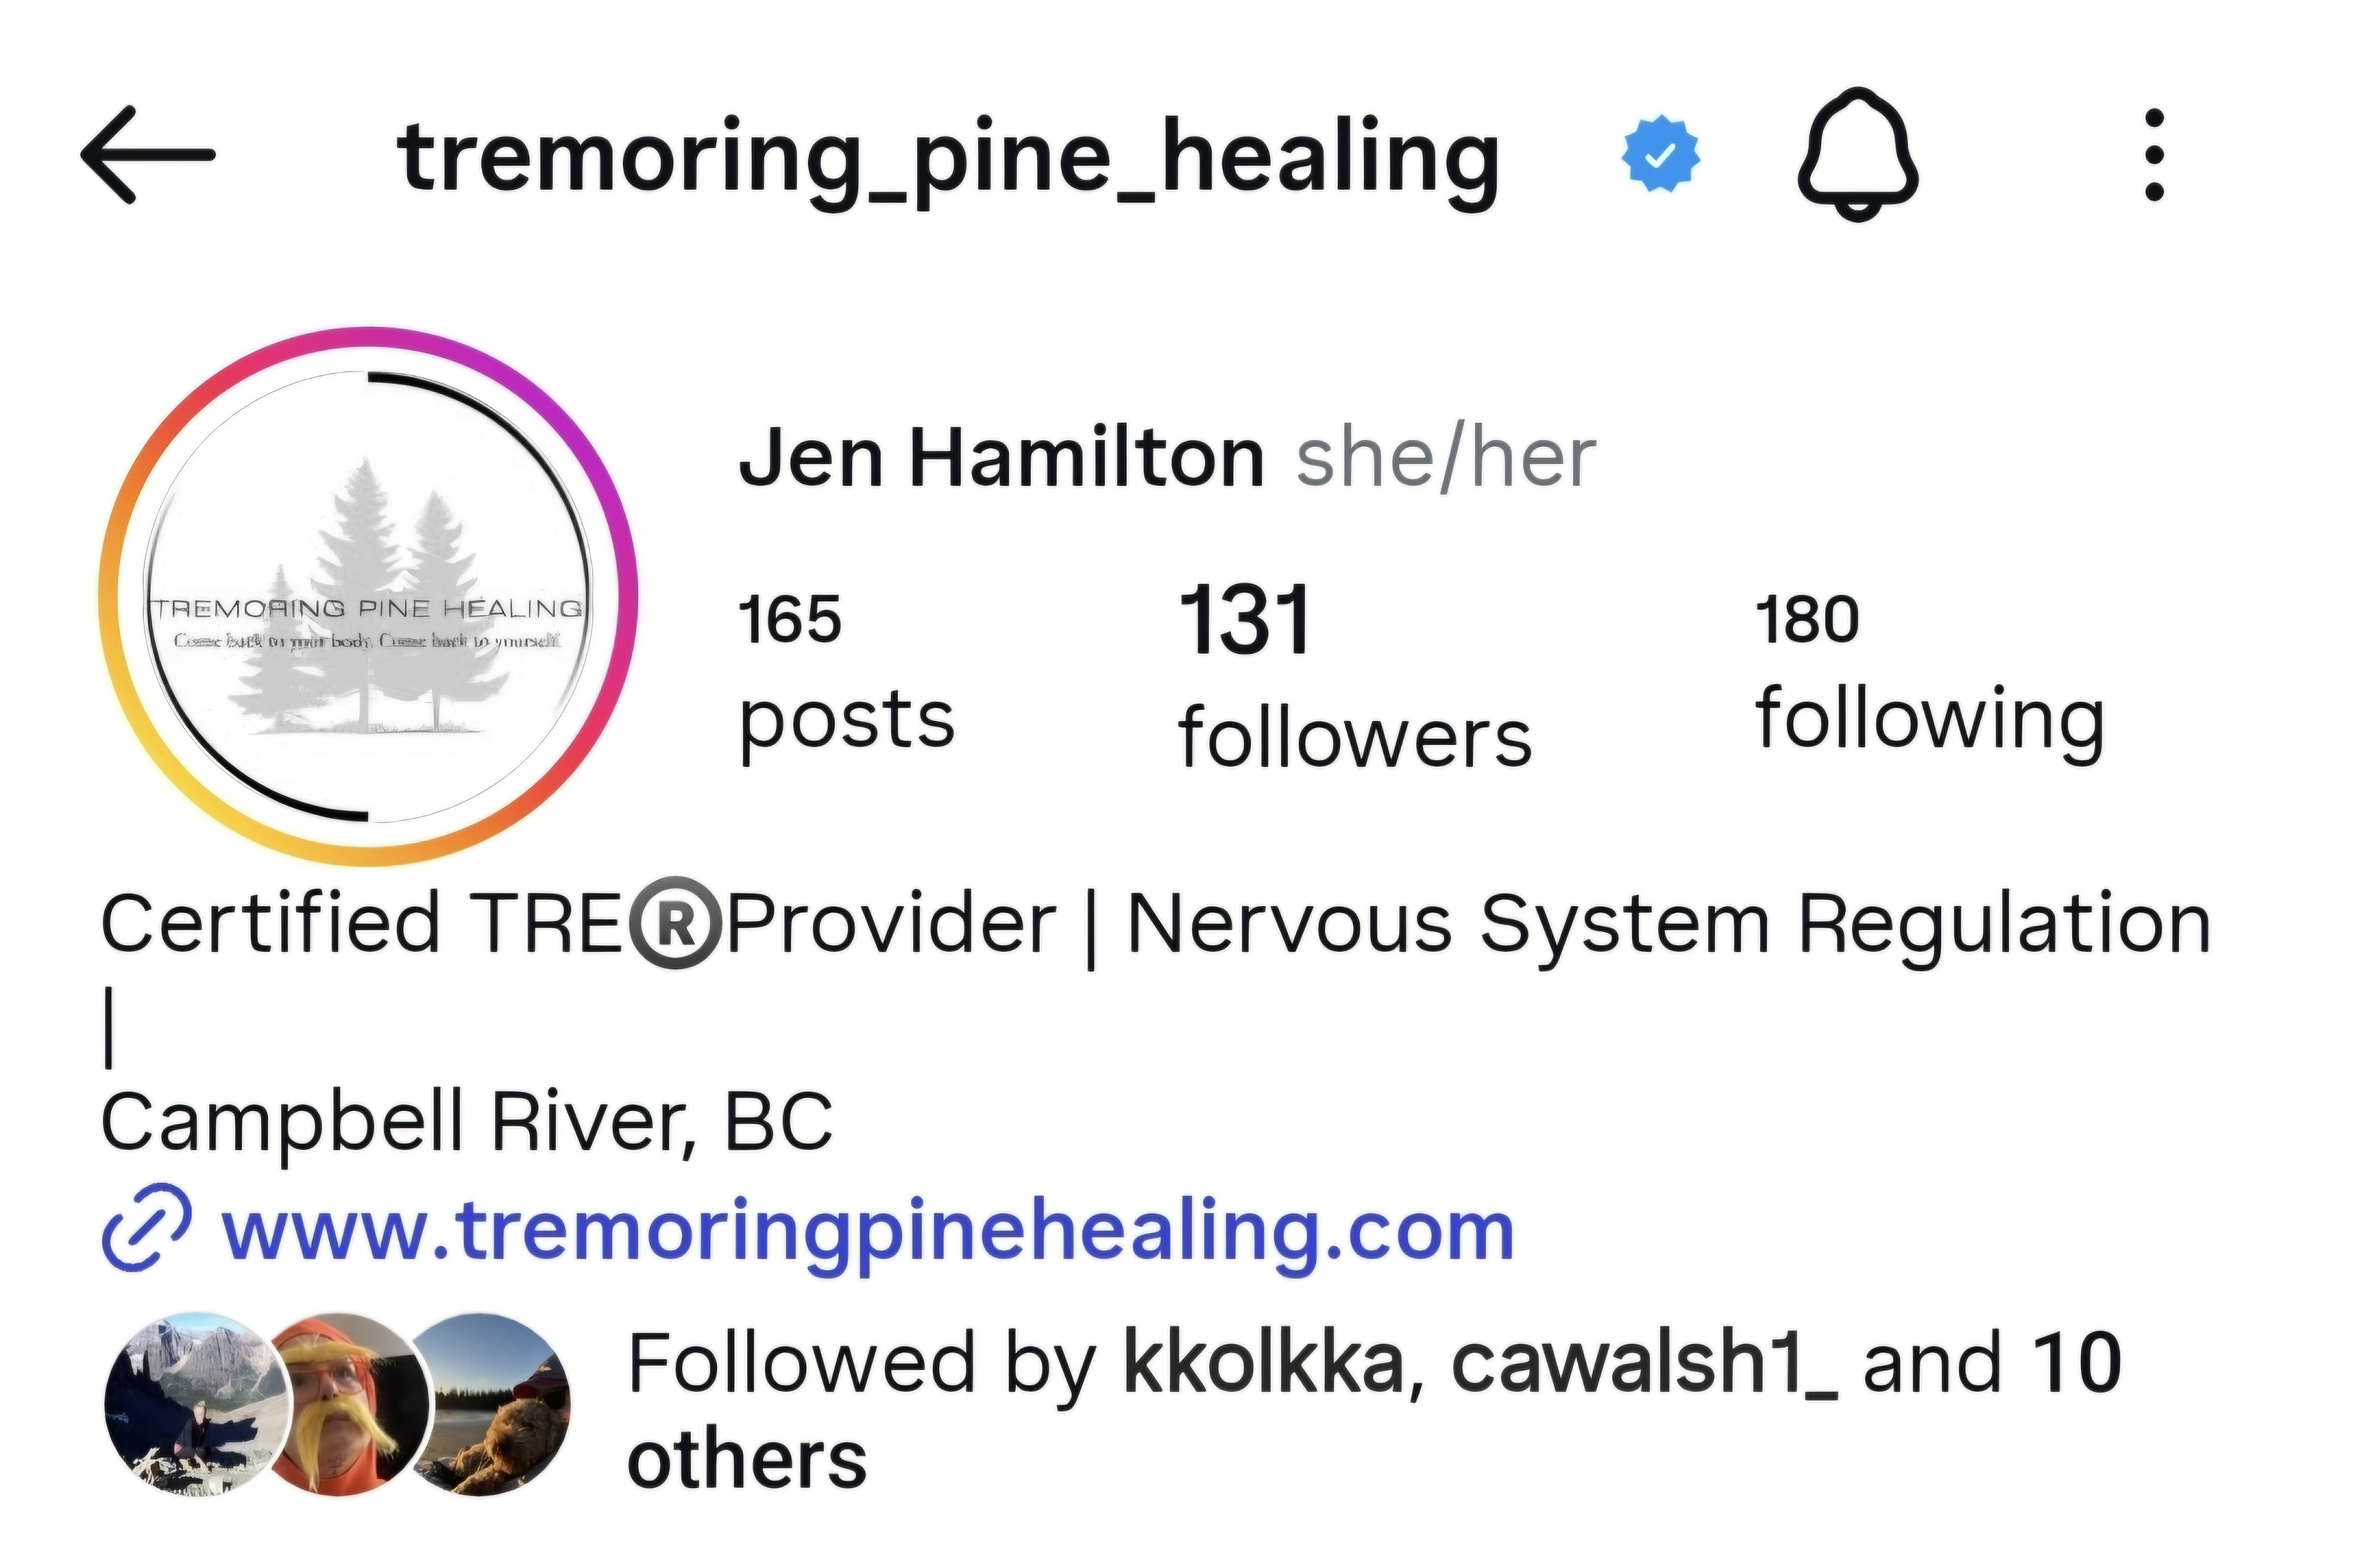
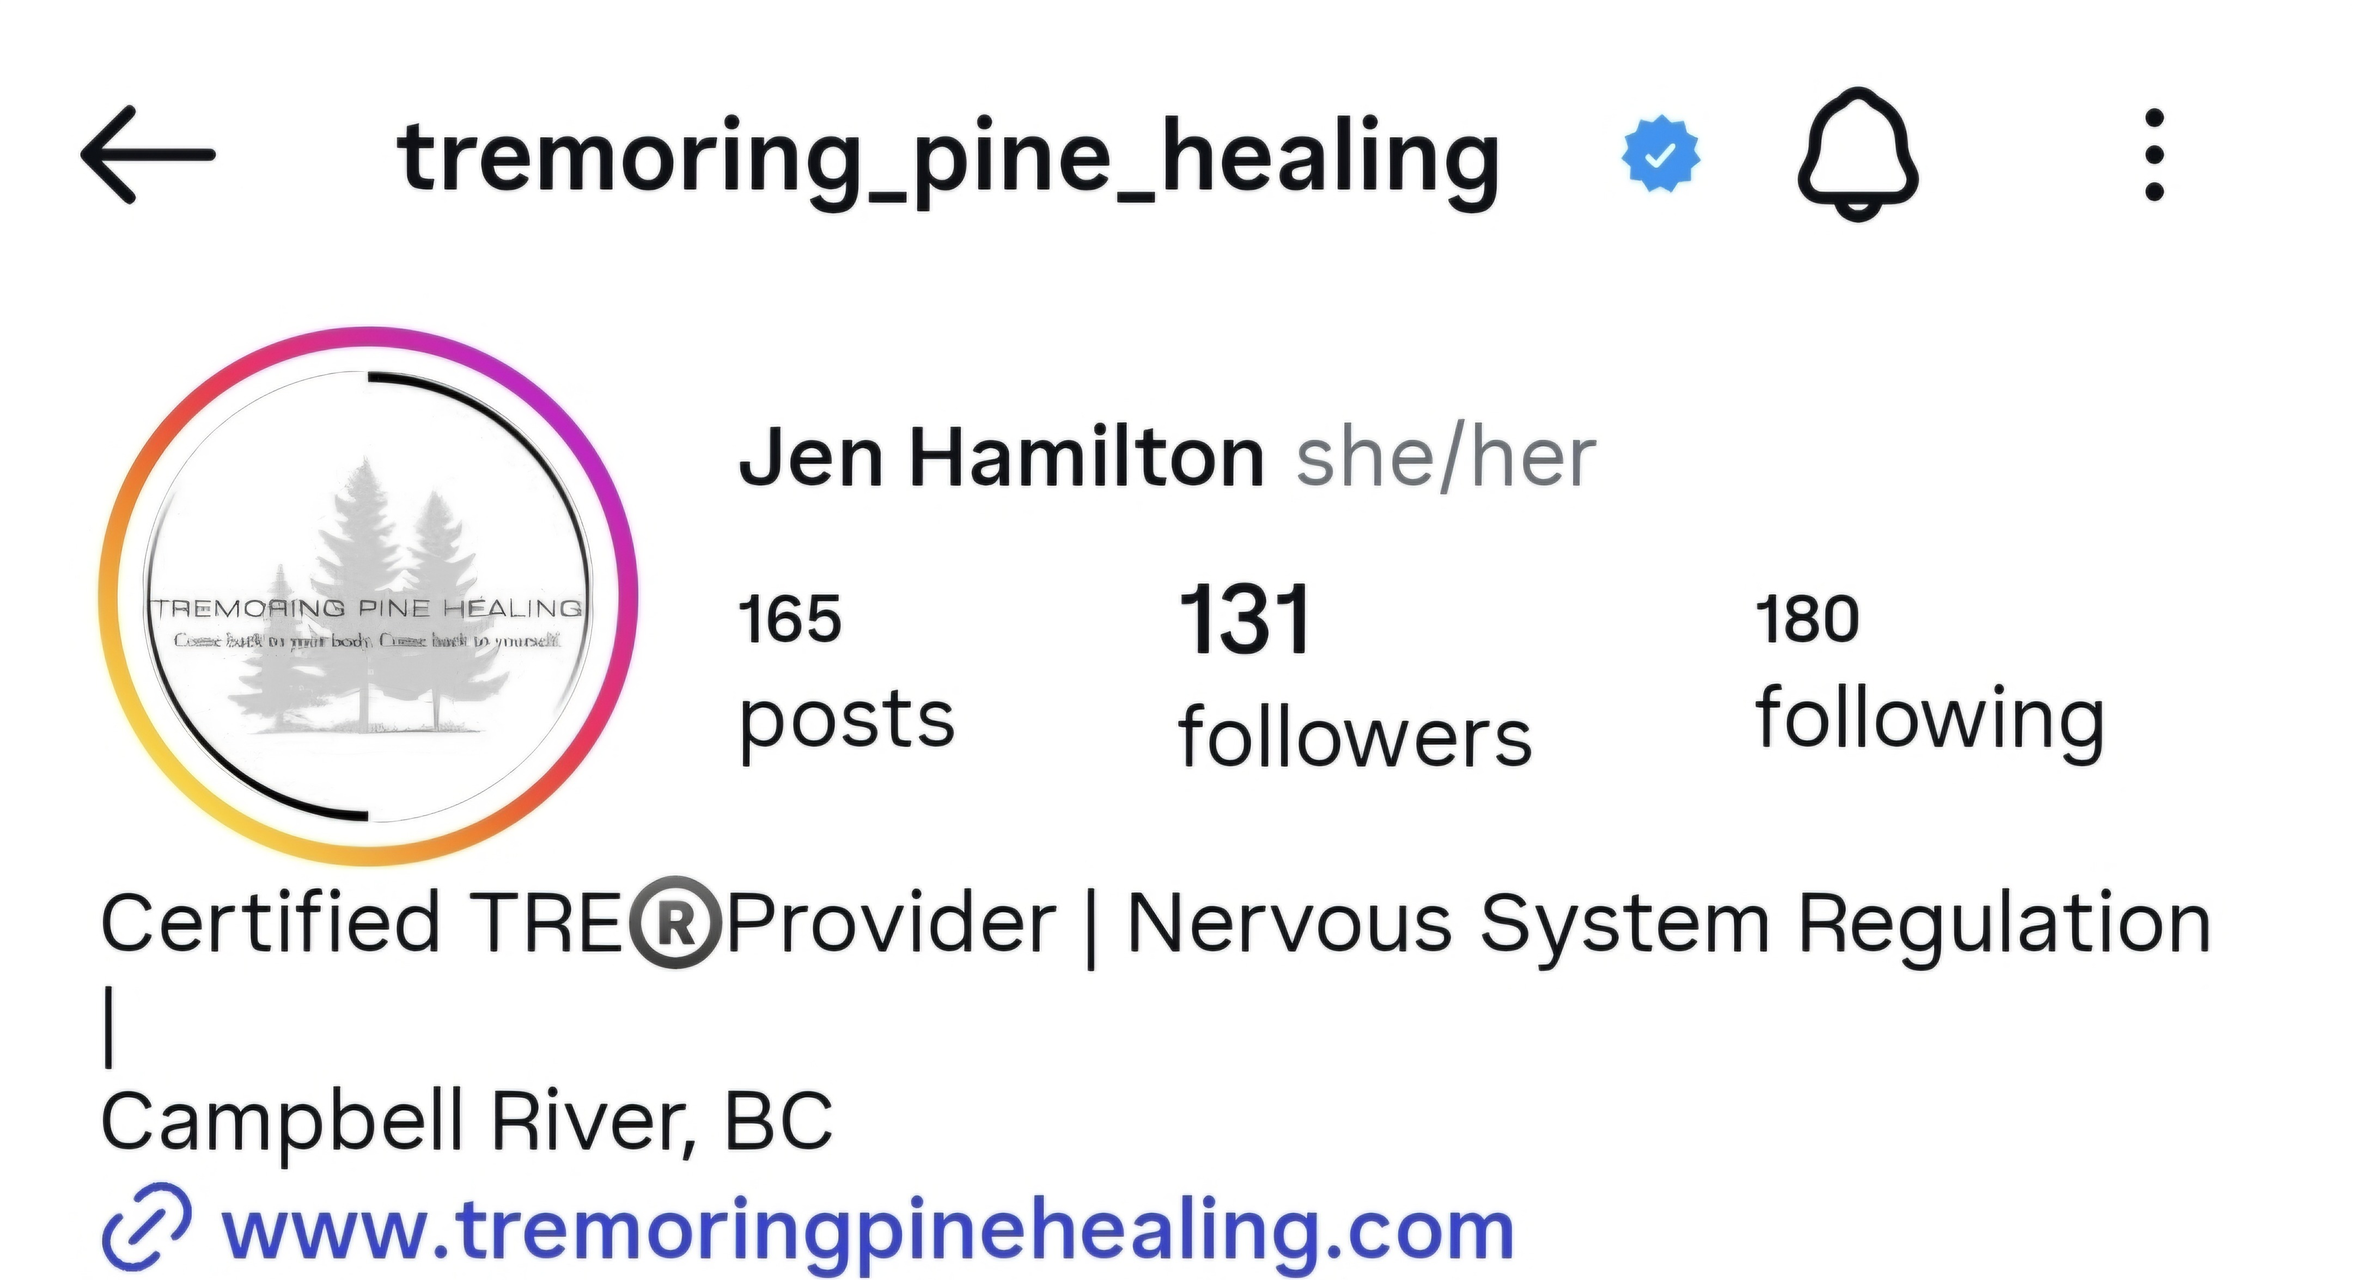
Crop followed-by rows, swap in real comment screenshot, wording fixes
- Cropped the "Followed by ... others" row (with the small avatar
  circles) out of both the before and after profile screenshots.
- Replaced the David Berceli lead image with the actual comment
  thread screenshot showing his real "Great video. Thanks." comment,
  matching the caption's "commented" claim instead of the earlier
  text-message-about-a-like screenshot.
- Table header: "Day 30 Result" -> "First 30 Days Results".
- Two Ways to Work With Me: dropped "paid media" from the employer-lane
  card to match the Core Strengths wording (current SHMB work doesn't
  include paid media).

Claude-Session: https://claude.ai/code/session_0134vWakpcecahZC5wDpyAcQ

diff --git a/about.html b/about.html
@@ -631,7 +631,7 @@
       <div class="results-table-wrap">
         <table class="results-table">
           <thead>
-            <tr><th>Metric</th><th>Day 30 Result</th><th>% Change</th></tr>
+            <tr><th>Metric</th><th>First 30 Days Results</th><th>% Change</th></tr>
           </thead>
           <tbody>
             <tr><td>Followers</td><td>131</td><td class="rose">+40.86%</td></tr>
@@ -659,7 +659,7 @@
 
     <div class="proof-block reveal">
       <div class="proof-block-label">Industry Validation</div>
-      <img class="lead-img" src="assets/work/lead-david-berceli.jpg" alt="Instagram screenshot: David Berceli, creator of TRE, engaging with a Tremoring Pine Healing reel">
+      <img class="lead-img" src="assets/work/lead-david-berceli.png" alt="Instagram comment thread: David Berceli, creator of TRE, commenting 'Great video. Thanks.' on a Tremoring Pine Healing reel">
       <p class="proof-caption">On Day 5, the global founder of TRE commented on one of the reels — organic validation the content was landing in exactly the right community.</p>
     </div>
 
@@ -713,7 +713,7 @@
     <div class="paths">
       <div class="path-card reveal">
         <h3>Hiring for a marketing or content role?</h3>
-        <p>I own a channel end-to-end, strategy, creative, paid media, and reporting, without waiting on a team to execute. AI is part of my daily workflow, not a shortcut I reach for occasionally.</p>
+        <p>I own a channel end-to-end, strategy, scripting, and reporting, without waiting on a team to execute. AI is part of my daily workflow, not a shortcut I reach for occasionally.</p>
         <a class="btn btn-outline" href="#contact">Let's talk</a>
       </div>
       <div class="path-card reveal">
